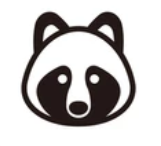
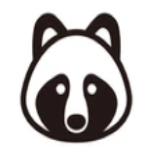
inserted images and objective html components

diff --git a/client/src/app/components/infos-box/infos-box.component.html b/client/src/app/components/infos-box/infos-box.component.html
@@ -1,15 +1,18 @@
 <div class="infos">
-    <div class="opponent">
-        <div class="profile"></div>
+    <div class="player">
+        <div class="profile"><img class="profile-icon" src="assets/icon-images/4.png" /></div>
         <div class="p-infos">
-            <p>{{ (this.gameContextService.getOther() | async)?.info?.name }}</p>
-            <p>{{ (this.gameContextService.getOther() | async)?.score }} points</p>
-            <p *ngIf="opponentRackIsVisible">{{ (this.gameContextService.getOther() | async)?.rackCount }} restantes dans le chevalet</p>
-            <div *ngIf="(gameContextService.isMyTurn() | async) === false && (this.gameContextService.isEnded() | async) === false" class="tour">
-                En cours de jeu...
+            <p class="name">{{ (this.gameContextService.getMe() | async)?.info?.name }}</p>
+            <p class="points">{{ (this.gameContextService.getMe() | async)?.score }} points</p>
+            <p *ngIf="myRackIsVisible">{{ (this.gameContextService.getMe() | async)?.rackCount }} lettres restantes dans le chevalet</p>
+            <div class="status-container">
+                <div *ngIf="(gameContextService.isMyTurn() | async) === true && (this.gameContextService.isEnded() | async) === false" class="status">
+                    <p>À votre tour!</p>
+                </div>
             </div>
         </div>
     </div>
+
     <div id="chrono">
         <app-chrono-container></app-chrono-container>
         <button
@@ -23,15 +26,20 @@
             <fa-icon [icon]="faAngleDoubleRight"></fa-icon>
         </button>
     </div>
-    <div class="player">
-        <div class="profile"></div>
+    <div class="opponent">
+        <div class="profile"><img class="profile-icon" src="assets/icon-images/1.png" /></div>
         <div class="p-infos">
-            <p>{{ (this.gameContextService.getMe() | async)?.info?.name }}</p>
-            <p>{{ (this.gameContextService.getMe() | async)?.score }} points</p>
-            <p *ngIf="myRackIsVisible">{{ (this.gameContextService.getMe() | async)?.rackCount }} lettres restantes dans le chevalet</p>
-            <!--<div *ngIf="(gameContextService.isMyTurn() | async) === true && !(this.gameContextService.state | async)?.ended" class="tour">
-                En cours de jeu...
-            </div>-->
+            <p class="name">{{ (this.gameContextService.getOther() | async)?.info?.name }}</p>
+            <p class="points">{{ (this.gameContextService.getOther() | async)?.score }} points</p>
+            <p *ngIf="opponentRackIsVisible">{{ (this.gameContextService.getOther() | async)?.rackCount }} restantes dans le chevalet</p>
+            <div class="status-container">
+                <div
+                    *ngIf="(gameContextService.isMyTurn() | async) === false && (this.gameContextService.isEnded() | async) === false"
+                    class="status"
+                >
+                    <p>En cours de jeu...</p>
+                </div>
+            </div>
         </div>
     </div>
 </div>

diff --git a/client/src/app/pages/game-page/game-page.component.scss b/client/src/app/pages/game-page/game-page.component.scss
@@ -22,24 +22,47 @@
     padding-top: 2vh;
 }
 
-#objectives {
+.chat-area {
+    margin: 25px 2vw 20px 2vw;
+}
+
+#objectives-container {
     display: flex;
     flex-direction: column;
-    justify-content: flex-start;
+    height: 50vh;
+    width: 14vw;
+    margin-top: 10vh;
+}
+
+.objectives {
+    border-radius: 15px;
+    width: 100%;
     border: black solid;
     border-width: thin;
 }
 
-#objectives #objectives-header {
-    width: 8vw;
+#private-objective {
+    height: 10vh;
+    margin-bottom: 10vh;
+    margin-top: 2vh;
+    background-color: #65ccd2;
+}
+#public-objective {
+    height: 20vh;
+    background-color: #ffe454;
+}
+
+.objectives .objective-header {
+    width: 100%;
     height: 4vh;
-    border-radius: 15px 0 15px 0;
+    border-radius: 15px 15px 0 0;
     border: black solid;
     border-width: thin;
     background-color: burlywood;
+    text-align: center;
 }
 
-#objectives #objectives-header h1 {
+.objectives .objective-header h1 {
     padding-left: 0.5vw;
 }
 
@@ -51,28 +74,16 @@
     height: 80vh;
 }
 
-// #bottom-infosArea {
-//     display: flex;
-//     flex-direction: column;
-//     justify-content: space-between;
-//     padding-top: 10vh;
-// }
-
 #settings {
     height: 5vh;
-    padding: 0;
+    padding: 0 0 5vh 0;
 }
 
 #quit-area {
+    display: flex;
+    justify-content: flex-end;
     height: 10vh;
-    margin-bottom: 0;
-}
-
-#objectives {
-    height: 30vh;
-    width: 20vw;
-    background-color: rgb(247, 247, 60);
-    border-radius: 15px;
+    margin-left: 11.5vw;
 }
 
 .play-area-container {
@@ -120,8 +131,13 @@
     width: 10vw;
 }
 
-#middle-side {
+#middle {
     width: 40vw;
+    padding-left: 5vw;
+}
+
+#right-side {
+    padding-left: 5vw;
 }
 
 .size-container {
@@ -196,26 +212,3 @@
     color: #000 !important;
     opacity: 0.95;
 }
-
-/*
-.goals,
-.game-goals {
-    display: flex;
-    flex-direction: column;
-    width: 10vw;
-    margin-left: 2vh;
-}
-#easy-goal,
-#hard-goal,
-#personal-goal {
-    width: 20vw;
-    margin: 2vh;
-}
-.goals {
-    font-style: Signika Negative;
-    font-size: 20px;
-    margin-top: 10vh;
-    color: #e1ac01;
-}
-
-*/

diff --git a/client/src/app/components/infos-box/infos-box.component.scss b/client/src/app/components/infos-box/infos-box.component.scss
@@ -1,9 +1,3 @@
-/*.opponent,
-.player {
-    border-width: thin;
-    border-style: solid;
-}
-*/
 .infos {
     display: flex;
     flex-direction: column;
@@ -15,7 +9,7 @@
 
 .opponent,
 .player {
-    padding: 10vh 0 10vh 0;
+    padding: 5vh 0 5vh 0;
     height: 30%;
 }
 
@@ -41,31 +35,35 @@
     font-size: 20px;
 }
 
-.profile {
-    background-color: gray;
-    border: gray solid;
+.profile,
+.profile-icon {
     border-radius: 100%;
     height: 4vw;
     width: 4vw;
-    padding-left: 0.5vw;
-    margin: 0.05vw;
 }
 
-// .opponent,
-// .player {
-//     flex-direction: row;
-//     justify-content: space-between;
-// }
+.profile {
+    border: rgb(201, 201, 201) solid;
+}
 
-.tour {
+.status-container,
+.status {
     display: flex;
     align-items: center;
     justify-content: center;
     height: 4vh;
     width: 8vw;
     border-radius: 10px;
-    background-color: #54bd9d;
     margin-top: 1vh;
+}
+
+.status {
+    background-color: #54bd9d;
+}
+
+.status p {
+    text-align: center;
+    width: 100%;
 }
 
 .skip-turn {
@@ -101,9 +99,6 @@ p {
     flex-direction: column;
     width: 95%;
 }
-.p-infos p {
-    margin-left: 1vh;
-}
 
 .winner-left,
 .winner-right {
@@ -123,4 +118,12 @@ p {
     flex-direction: column;
     align-items: center;
     width: 100%;
+}
+
+.name {
+    font-size: 25px;
+    padding: 2vh 0 2vh 0;
+}
+.points {
+    font-size: 30px;
 }

diff --git a/client/src/app/pages/game-page/game-page.component.html b/client/src/app/pages/game-page/game-page.component.html
@@ -54,19 +54,22 @@
                         <fa-icon id="increase" [icon]="faFont" size="3x" (click)="changeSize(1.1)"></fa-icon>
                     </button>
                 </div>
-                <div id="objectives">
-                    <div id="objectives-header"><h1>Objectifs</h1></div>
-                    <div class="objective" id="private-objective"></div>
-                    <div class="objective" id="public-objective"></div>
+                <div id="objectives-container">
+                    <div class="objectives" id="private-objective">
+                        <div class="objective-header"><h1>Objectif privé</h1></div>
+                    </div>
+                    <div class="objectives" id="public-objective">
+                        <div class="objective-header"><h1>Objectifs publics</h1></div>
+                    </div>
                 </div>
             </div>
-            <div id="middle-side">
+            <div id="middle">
                 <div class="play-area-container">
                     <app-play-area class="play-area" tabindex="0" [sent]="sent"></app-play-area>
                 </div>
             </div>
             <div id="right-side">
-                <div class="chatArea">
+                <div class="chat-area">
                     <app-chat-box></app-chat-box>
                 </div>
             </div>

diff --git a/client/src/app/components/letter-rack/letter-rack.component.html b/client/src/app/components/letter-rack/letter-rack.component.html
@@ -2,7 +2,7 @@
     <div
         *ngFor="let letter of letters; let idx = index"
         (click)="manipulate(idx)"
-        (contextmenu)="select(idx); $event.preventDefault();"
+        (contextmenu)="select(idx); $event.preventDefault()"
         class="letter-container"
         [ngClass]="{ manipulating: manipulating === idx, exchanging: exchanging.includes(idx) }"
     >
@@ -28,12 +28,6 @@
 </div>
 
 <div id="menu" class="context-menu" *ngIf="exchanging.length > 0">
-    <button
-        id="exchange"
-        (click)="exchange()"
-        [disabled]="(gameContextService.isMyTurn() | async) === false || getReserveCount()"
-    >
-        Échanger
-    </button>
+    <button id="exchange" (click)="exchange()" [disabled]="(gameContextService.isMyTurn() | async) === false || getReserveCount()">Échanger</button>
     <button id="cancel" (click)="exchanging = []">Annuler</button>
 </div>

diff --git a/client/src/app/components/chat-box/chat-box.component.scss b/client/src/app/components/chat-box/chat-box.component.scss
@@ -6,9 +6,6 @@ div {
 
 #wholeBox {
     background-color: #e1ac01;
-    margin-left: 3vw;
-    margin-top: 25px;
-    margin-bottom: 20px;
     padding: 20px;
     border-style: solid;
     display: flex;
@@ -17,7 +14,6 @@ div {
     height: 75vh;
     width: 18vw;
     float: right;
-    margin-right: 2vw;
 }
 .message {
     word-break: break-word;

diff --git a/client/src/styles.scss b/client/src/styles.scss
@@ -50,11 +50,3 @@ body {
     display: flex;
     flex-direction: column;
 }
-/*
-.play-area-container {
-    height: 40vh;
-}
-.chatArea {
-    flex-direction: column;
-    justify-content: space-evenly;
-}*/

diff --git a/client/src/app/components/letter-rack/letter-rack.component.scss b/client/src/app/components/letter-rack/letter-rack.component.scss
@@ -74,8 +74,8 @@
     display: flex;
     flex-direction: column;
     position: fixed;
-    right: 60%;
-    top: 85vh;
+    right: 66.5%;
+    top: 82.5vh;
     color: white;
 }
 
